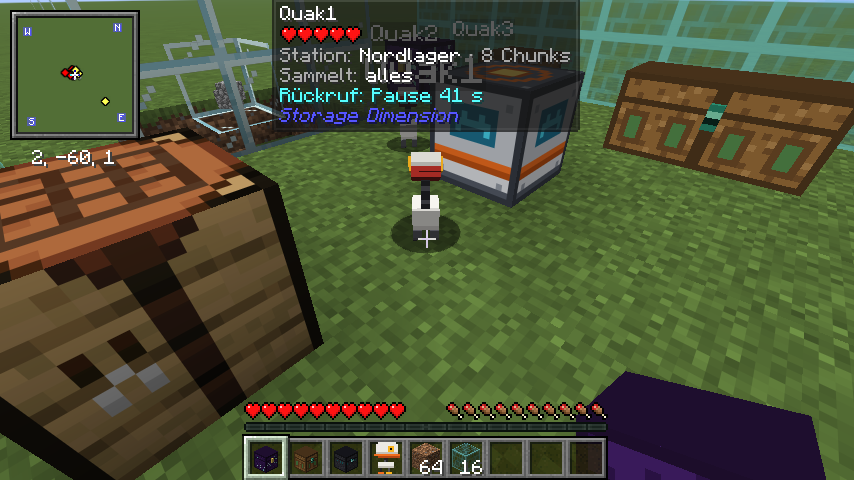
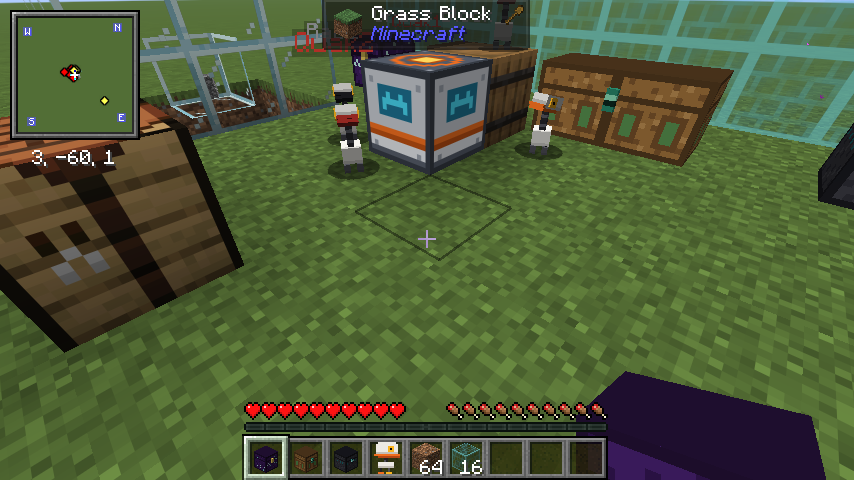
README: names in robot colour, lid when storing, new screenshots
Claude-Session: https://claude.ai/code/session_01PrmjDFV55ANqJ3JywmcmfC

diff --git a/.github/release-notes.md b/.github/release-notes.md
@@ -1,6 +1,6 @@
 Storage Dimension für **Minecraft 26.1.2** (Fabric).
 
-**Neu in 0.5.0:** Roboter-Station mit eigenem Fenster (echte Knöpfe und Textfelder): Stationsname, Filter (nur diese / alles außer diesen), Reichweite, Farbe und Robotername (doppelte Namen werden durchnummeriert, kostet keine Level), dazu eine Liste aller Roboter der Station (bis 32) mit Zustand und Entfernung. Roboter lassen sich nur noch an einer Station eingestellt hinstellen; jeder behält seine eigenen Einstellungen (Name, Farbe, Filter, Reichweite), sodass an einer Station Roboter mit verschiedenen Aufgaben arbeiten können. Roboter lagern nur noch in Speicher direkt an ihrer Station (Kisten, Fässer, Shulker- und Enderkisten, Dimensions-, Filter- und ME-Blöcke, Speicher anderer Mods; nie in Trichter oder Maschinen). Sind alle voll, warten sie traurig („Kisten voll“) und räumen weiter ein, sobald wieder Platz ist. Zurückrufen-Knopf: Alle laufen sofort los („auf dem Weg“), sammeln sich im 3×3-Feld um die Station (ab 21 Robotern 5×5) und warten eine Minute; dabei schauen sie den Spieler an, der gerufen hat. Teleportiert wird nur, wer keinen Weg findet, und jeder landet auf einem eigenen freien Platz; wer 3 Minuten nicht zur Station durchkommt, teleportiert sich ebenfalls hin. Kann ein Roboter nicht arbeiten, stehen rote 🚫 links und rechts von seinem Namen, der Grund steht als „Fehler: …“ in Jade und in der Stationsliste. Roboter hüpfen bis zu zwei Blöcke hoch, auch über Zäune und Mauern, steigen aus Booten aus, tauchen mit Glashelm (auch tief in Becken und hinauf zu treibenden Items wie Seetang), schwimmen schnell mit Spritzspur, spannen bei Regen einen Schirm in ihrer Farbe auf und wackeln beim Warten jeder im eigenen Takt. Mit Jade zeigt der Blick auf Roboter und Station Einstellungen und Zustand, mit Xaero's Minimap erscheinen die Roboter mit Gesicht auf der Karte. Filterkisten mit verzauberten Items als Filter nehmen nur Items mit genau diesen Verzauberungen. ME-Terminal: echte Knöpfe zum Blättern und Einlagern. Traveler's-Backpack-Add-on 0.5.0: Die ME-Ansicht im Rucksack ist aufgebaut wie die ME-Kiste (Suchleiste mit J-Schalter und Sortierung oben, Blättern, Einlagern und Mengenanzeige unten), die Rucksack-Knöpfe sind dort ausgeblendet. Getestet mit JEI 29.47.0.111, Jade 26.1.11 und Xaero's Minimap 26.6.2.
+**Neu in 0.5.0:** Roboter-Station mit eigenem Fenster (echte Knöpfe und Textfelder): Stationsname, Filter (nur diese / alles außer diesen), Reichweite, Farbe und Robotername (doppelte Namen werden durchnummeriert, kostet keine Level), dazu eine Liste aller Roboter der Station (bis 32) mit Zustand und Entfernung. Roboter lassen sich nur noch an einer Station eingestellt hinstellen; jeder behält seine eigenen Einstellungen (Name, Farbe, Filter, Reichweite), sodass an einer Station Roboter mit verschiedenen Aufgaben arbeiten können. Roboter lagern nur noch in Speicher direkt an ihrer Station (Kisten, Fässer, Shulker- und Enderkisten, Dimensions-, Filter- und ME-Blöcke, Speicher anderer Mods; nie in Trichter oder Maschinen). Sind alle voll, warten sie traurig („Kisten voll“) und räumen weiter ein, sobald wieder Platz ist. Zurückrufen-Knopf: Alle laufen sofort los („auf dem Weg“), sammeln sich im 3×3-Feld um die Station (ab 21 Robotern 5×5) und warten eine Minute; dabei schauen sie den Spieler an, der gerufen hat. Teleportiert wird nur, wer keinen Weg findet, und jeder landet auf einem eigenen freien Platz; wer 3 Minuten nicht zur Station durchkommt, teleportiert sich ebenfalls hin. Kann ein Roboter nicht arbeiten, stehen rote 🚫 links und rechts von seinem Namen, der Grund steht als „Fehler: …“ in Jade und in der Stationsliste. Roboter hüpfen bis zu zwei Blöcke hoch, auch über Zäune und Mauern, steigen aus Booten aus, tauchen mit Glashelm (auch tief in Becken und hinauf zu treibenden Items wie Seetang), schwimmen schnell mit Spritzspur, spannen bei Regen einen Schirm in ihrer Farbe auf und wackeln beim Warten jeder im eigenen Takt. Ihr Name steht in ihrer Farbe, zum Einlagern gehen sie direkt an die Kiste und öffnen kurz den Deckel (Geräusch per `robotChestSound` zuschaltbar). Mit Jade zeigt der Blick auf Roboter und Station Einstellungen und Zustand, mit Xaero's Minimap erscheinen die Roboter mit Gesicht auf der Karte. Filterkisten mit verzauberten Items als Filter nehmen nur Items mit genau diesen Verzauberungen. ME-Terminal: echte Knöpfe zum Blättern und Einlagern. Traveler's-Backpack-Add-on 0.5.0: Die ME-Ansicht im Rucksack ist aufgebaut wie die ME-Kiste (Suchleiste mit J-Schalter und Sortierung oben, Blättern, Einlagern und Mengenanzeige unten), die Rucksack-Knöpfe sind dort ausgeblendet. Getestet mit JEI 29.47.0.111, Jade 26.1.11 und Xaero's Minimap 26.6.2.
 
 **Neu in 0.4.4:** Roboter-Station: stellt Reichweite (ab der Station), Filter, Farbe und Namen ein; Roboter kommt eingestellt aus dem Ausgang, die Einstellungen stehen im Tooltip. Namen schweben über den Robotern. Roboter arbeiten im Schwarm (jeder holt ein anderes Item), warten ohne Arbeit fröhlich an ihrer Station und sitzen traurig da, wenn sie die Station nicht erreichen oder keine Kiste in Reichweite ist. Sie stellen sich zum Aufheben direkt aufs Item. Das ME-Terminal kann seine Suche mit der JEI-Suchleiste koppeln (Schalter „J“). Traveler's-Backpack-Add-on 0.4.4 (hat jetzt dieselbe Versionsnummer): Das ME-Upgrade zeigt den ME-Speicher direkt im Rucksack-Fenster an Stelle des Rucksack-Inhalts, Crafting und die anderen Upgrades bleiben daneben; ein zweiter Klick zeigt wieder den Rucksack. JEIs „+“ ist nur noch grün, wenn wirklich alle Zutaten in ME, Rucksack oder Inventar liegen. Getestet mit JEI 29.47.0.111.
 

diff --git a/README.md b/README.md
@@ -130,6 +130,7 @@ Die Roboter lagern nur in Speicher, der **direkt an der Station** steht, also an
 
 ### Wie die Roboter arbeiten
 
+- **Name:** Der Name über dem Kopf, in Jade und in der Stationsliste steht in der Farbe des Roboters (sehr dunkle Farben etwas aufgehellt, damit man sie lesen kann).
 - **Einlagern:** Zum Einlagern geht ein Roboter direkt an die Kiste. Der Deckel (bei Fässern die Klappe) geht kurz auf und wieder zu, standardmäßig ohne Geräusch (siehe `robotChestSound` unter [Einstellungen](#einstellungen)).
 - **Schwarm:** Mehrere Roboter stimmen sich ab. Jeder holt ein anderes Item, es rennen nie alle zum selben.
 - **Wege:** Bevor ein Roboter losläuft, plant er den ganzen Weg. Gibt es keinen (eingemauert, hinter einer Roboter-Barriere, über Lava), lässt er das Item eine Minute in Ruhe und nimmt das nächste. Bleibt er unterwegs hängen, gibt er nach 5 Sekunden auf. Neu fallengelassene Items bemerkt er nach spätestens einer halben Sekunde.
